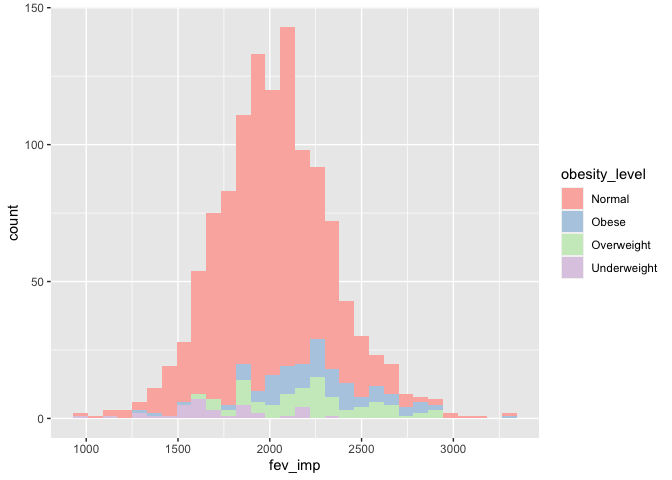
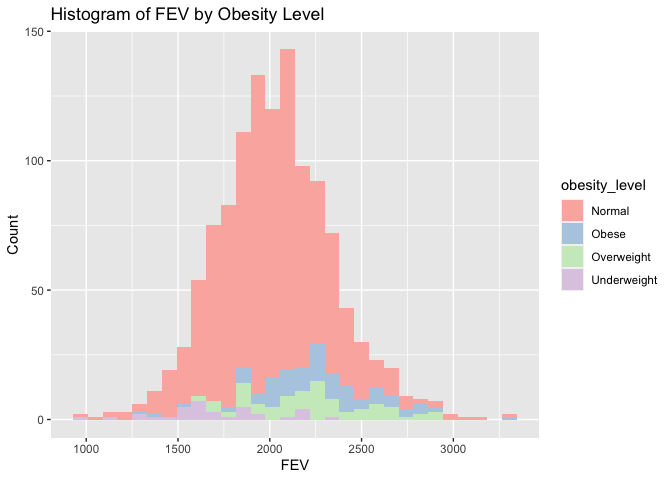
HW2 Submission https://github.com/USCbiostats/PM566/issues/60

diff --git a/pm566-homeworks/Homework2/HW2.md b/pm566-homeworks/Homework2/HW2.md
@@ -1,7 +1,7 @@
 HW2
 ================
 Megan Tran
-\`October 3, 2022
+\`October 7, 2022
 
 ``` r
 library(tidytext)
@@ -160,8 +160,9 @@ mean(is.na(data))
 
     ## [1] 0.02782313
 
-Although the proportion of missing values is low, I’ll be imputing it
-with the average from “male” “hispanic”.
+Although the proportion of missing values is low (2.78%) and won’t
+affect the data much, I’ll still be imputing the missing values with the
+average from “male” “hispanic”.
 
 \#impute missing values with average from “male” and “hispanic”
 
@@ -233,78 +234,78 @@ proportion, if binary) and sd of “Forced expiratory volume in 1 second
 
 ``` r
 data[, .(
+   count        = length(fev_imp),
     mean_fev     = mean(fev_imp, na.rm=TRUE),
     sd_fev       = sd(fev_imp, na.rm=TRUE), 
-    prop_asthma  = mean(asthma_imp, na.rm=TRUE),
-    sd_asthma    = sd(asthma_imp, na.rm=TRUE)
+    prop_asthma  = mean(asthma_imp, na.rm=TRUE)
     ),
     by = townname
     ][order(townname)] 
 ```
 
-    ##          townname mean_fev   sd_fev prop_asthma sd_asthma
-    ##  1:        Alpine 2087.101 291.1768   0.1144423 0.3139348
-    ##  2:    Atascadero 2075.897 324.0935   0.2528408 0.4340107
-    ##  3: Lake Elsinore 2038.849 303.6956   0.1274366 0.3255095
-    ##  4:  Lake Gregory 2084.700 319.9593   0.1512392 0.3585609
-    ##  5:     Lancaster 2003.044 317.1298   0.1640054 0.3674206
-    ##  6:        Lompoc 2034.354 351.0454   0.1142335 0.3139431
-    ##  7:    Long Beach 1985.861 319.4625   0.1359886 0.3370219
-    ##  8:     Mira Loma 1985.202 324.9634   0.1582359 0.3572088
-    ##  9:     Riverside 1989.881 277.5065   0.1100000 0.3144660
-    ## 10:     San Dimas 2026.794 318.7845   0.1712392 0.3771647
-    ## 11:   Santa Maria 2025.750 312.1725   0.1348240 0.3372912
-    ## 12:        Upland 2024.266 343.1637   0.1212392 0.3263737
+    ##          townname count mean_fev   sd_fev prop_asthma
+    ##  1:        Alpine   100 2087.101 291.1768   0.1144423
+    ##  2:    Atascadero   100 2075.897 324.0935   0.2528408
+    ##  3: Lake Elsinore   100 2038.849 303.6956   0.1274366
+    ##  4:  Lake Gregory   100 2084.700 319.9593   0.1512392
+    ##  5:     Lancaster   100 2003.044 317.1298   0.1640054
+    ##  6:        Lompoc   100 2034.354 351.0454   0.1142335
+    ##  7:    Long Beach   100 1985.861 319.4625   0.1359886
+    ##  8:     Mira Loma   100 1985.202 324.9634   0.1582359
+    ##  9:     Riverside   100 1989.881 277.5065   0.1100000
+    ## 10:     San Dimas   100 2026.794 318.7845   0.1712392
+    ## 11:   Santa Maria   100 2025.750 312.1725   0.1348240
+    ## 12:        Upland   100 2024.266 343.1637   0.1212392
 
 ``` r
 data[, .(
+    count        = length(fev_imp),
     mean_fev     = mean(fev_imp, na.rm=TRUE),
     sd_fev       = sd(fev_imp, na.rm=TRUE), 
-    prop_asthma  = mean(asthma_imp, na.rm=TRUE),
-    sd_asthma    = sd(asthma_imp, na.rm=TRUE)
+    prop_asthma  = mean(asthma_imp, na.rm=TRUE)
     ),
     by = male
-    ]
+    ][order(male)] 
 ```
 
-    ##    male mean_fev   sd_fev prop_asthma sd_asthma
-    ## 1:    0 1958.911 311.9181   0.1208035 0.3224043
-    ## 2:    1 2103.787 307.5123   0.1726819 0.3728876
+    ##    male count mean_fev   sd_fev prop_asthma
+    ## 1:    0   610 1958.911 311.9181   0.1208035
+    ## 2:    1   590 2103.787 307.5123   0.1726819
 
 ``` r
 data[, .(
+    count        = length(fev_imp),
     mean_fev     = mean(fev_imp, na.rm=TRUE),
     sd_fev       = sd(fev_imp, na.rm=TRUE), 
-    prop_asthma  = mean(asthma_imp, na.rm=TRUE),
-    sd_asthma    = sd(asthma_imp, na.rm=TRUE)
+    prop_asthma  = mean(asthma_imp, na.rm=TRUE)
     ),
     by = obesity_level
     ][order(obesity_level)] 
 ```
 
-    ##    obesity_level mean_fev   sd_fev prop_asthma sd_asthma
-    ## 1:        Normal 1999.794 295.1964  0.14036063 0.3426863
-    ## 2:         Obese 2266.154 325.4710  0.20819643 0.4034416
-    ## 3:    Overweight 2224.322 317.4261  0.16409910 0.3687886
-    ## 4:   Underweight 1698.327 303.3983  0.08571429 0.2840286
+    ##    obesity_level count mean_fev   sd_fev prop_asthma
+    ## 1:        Normal   975 1999.794 295.1964  0.14036063
+    ## 2:         Obese   103 2266.154 325.4710  0.20819643
+    ## 3:    Overweight    87 2224.322 317.4261  0.16409910
+    ## 4:   Underweight    35 1698.327 303.3983  0.08571429
 
 ``` r
 data[, .(
+    count        = length(fev_imp),
     mean_fev     = mean(fev_imp, na.rm=TRUE),
     sd_fev       = sd(fev_imp, na.rm=TRUE), 
-    prop_asthma  = mean(asthma_imp, na.rm=TRUE),
-    sd_asthma    = sd(asthma_imp, na.rm=TRUE)
+    prop_asthma  = mean(asthma_imp, na.rm=TRUE)
     ),
     by = smoke_gas_exposure
     ][order(smoke_gas_exposure)] 
 ```
 
-    ##    smoke_gas_exposure mean_fev   sd_fev prop_asthma sd_asthma
-    ## 1:               Both 2019.867 298.9728   0.1303123 0.3319599
-    ## 2:            GasOnly 2025.989 317.6305   0.1478616 0.3531690
-    ## 3:               None 2055.356 330.4169   0.1476213 0.3522319
-    ## 4:          SmokeOnly 2055.714 295.6475   0.1717490 0.3768879
-    ## 5:               <NA> 2001.878 340.2592   0.1475272 0.3179866
+    ##    smoke_gas_exposure count mean_fev   sd_fev prop_asthma
+    ## 1:               Both   151 2019.867 298.9728   0.1303123
+    ## 2:            GasOnly   739 2025.989 317.6305   0.1478616
+    ## 3:               None   214 2055.356 330.4169   0.1476213
+    ## 4:          SmokeOnly    36 2055.714 295.6475   0.1717490
+    ## 5:               <NA>    60 2001.878 340.2592   0.1475272
 
 \##Looking at the Data (EDA)
 
@@ -460,20 +461,25 @@ smoke/gas exposure. Use different color schemes than the ggplot default.
 ``` r
 ggplot(data=data) +
   geom_histogram(mapping = aes(x = fev_imp, fill = obesity_level)) +
-        scale_fill_brewer(palette = "Pastel1")
+        scale_fill_brewer(palette = "Pastel1") +
+        labs(title = "Histogram of FEV by Obesity Level") + 
+         labs(x = expression("FEV"), y = "Count") 
 ```
 
     ## `stat_bin()` using `bins = 30`. Pick better value with `binwidth`.
 
 ![](HW2_files/figure-gfm/unnamed-chunk-14-1.png)<!-- --> There are a
 significantly greater amount of those with “Normal” BMI than any other
-category. The second largest group our “Obese”. But there isn’t a clear
-association between obesity level and fev.
+category. The second largest group is “Obese”. But there isn’t a clear
+association between obesity level and fev that can be gathered from this
+graph.
 
 ``` r
 ggplot(data=data) +
   geom_histogram(mapping = aes(x = fev_imp, fill = smoke_gas_exposure)) + 
-        scale_fill_brewer(palette = "Set2") 
+        scale_fill_brewer(palette = "Set2") +
+        labs(title = "Histogram of FEV by Smoke/gas exposure") + 
+        labs(x = expression("FEV"), y = "Count") 
 ```
 
     ## `stat_bin()` using `bins = 30`. Pick better value with `binwidth`.
@@ -487,7 +493,9 @@ correlation between FEV and smoke/gas exposure.
 
 ``` r
 ggplot(data=data) +
-  geom_bar(mapping = aes(x = obesity_level, fill = smoke_gas_exposure))
+  geom_bar(mapping = aes(x = obesity_level, fill = smoke_gas_exposure)) +
+    labs(title = "Bar Graph of BMI by Smoke/Gas Exposure") + 
+         labs(x = expression("Obesity Level"), y = "Count") 
 ```
 
 ![](HW2_files/figure-gfm/unnamed-chunk-16-1.png)<!-- --> From this
@@ -501,20 +509,22 @@ and FEV by smoke/gas exposure category.
 ``` r
 data[!is.na(fev_imp)] %>%
   ggplot(mapping = aes(x=obesity_level, y=fev_imp)) + 
-    stat_summary(fun.data = mean_sdl,
-  geom = "errorbar")      
+    stat_summary(fun.data = mean_sdl, geom = "errorbar") +
+    labs(title = "Statistical Summary Graph of FEV by Obesity Level") + 
+         labs(x = expression("Obesity Level"), y = "FEV") 
 ```
 
 ![](HW2_files/figure-gfm/unnamed-chunk-17-1.png)<!-- --> This
 visualization gives me the most information. I can see that as the BMI
-increaseses, so do the bars. Perhaps there’s a correlation between the
+increases, so do the bars. Perhaps there’s a correlation between the
 variables after all.
 
 ``` r
 data[!is.na(fev_imp)] %>%
   ggplot(mapping = aes(x=smoke_gas_exposure, y=fev_imp)) + 
-    stat_summary(fun.data = mean_sdl,
-  geom = "errorbar")      
+    stat_summary(fun.data = mean_sdl, geom = "errorbar") +
+      labs(title = "Statistical Summary Graph of FEV by Smoke/Gas Category") + 
+         labs(x = expression("Smoke/Gas Exposure"), y = "FEV") 
 ```
 
 ![](HW2_files/figure-gfm/unnamed-chunk-18-1.png)<!-- --> The lowest bar
@@ -542,7 +552,7 @@ As a general trend, the communities that are more north have smaller
 concentrations of PM 2.5 than the southern communities.
 
 \#Question 6 Choose a visualization to examine whether PM2.5 mass is
-associated with FEV.
+associated with FEV. I chpse to do a scatterplot with a regression line.
 
 ``` r
 ggplot(data=data) + 
@@ -553,4 +563,5 @@ ggplot(data=data) +
     ## `geom_smooth()` using method = 'gam' and formula 'y ~ s(x, bs = "cs")'
 
 ![](HW2_files/figure-gfm/unnamed-chunk-20-1.png)<!-- --> I don’t see a
-correlation because the regression line is almost horizontal.
+correlation between PM2.5 and FEV because the regression line is almost
+horizontal.
